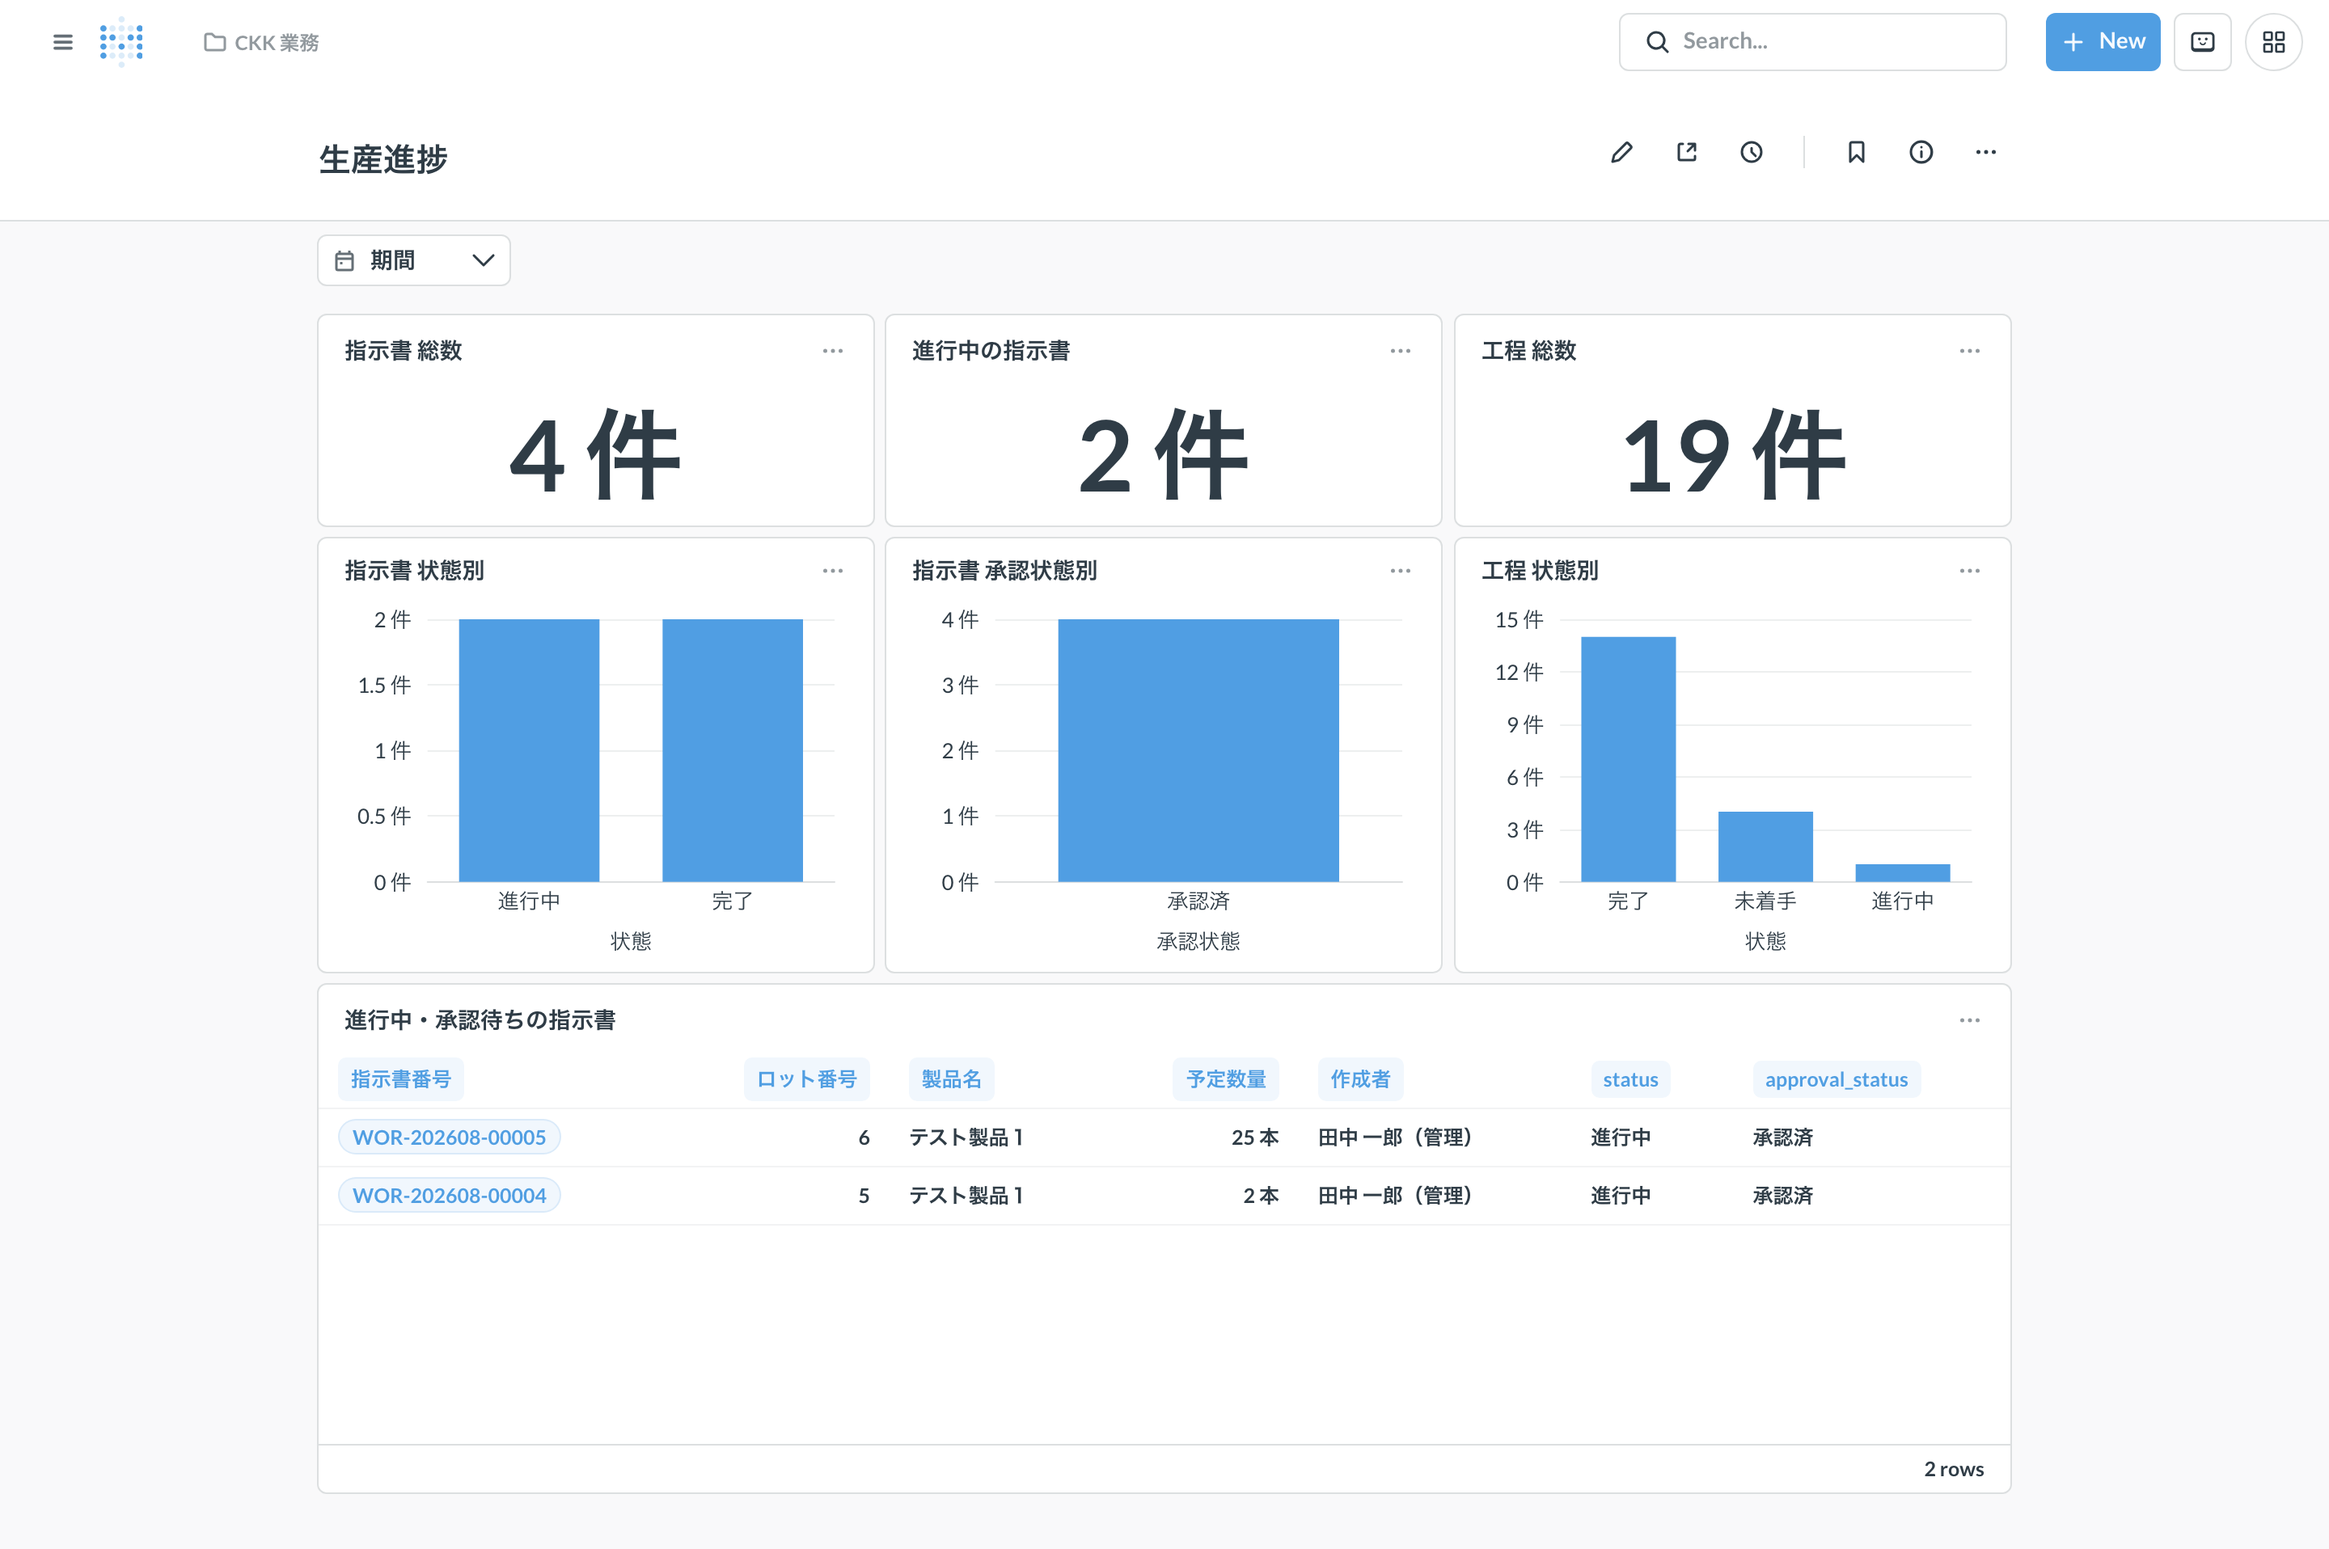
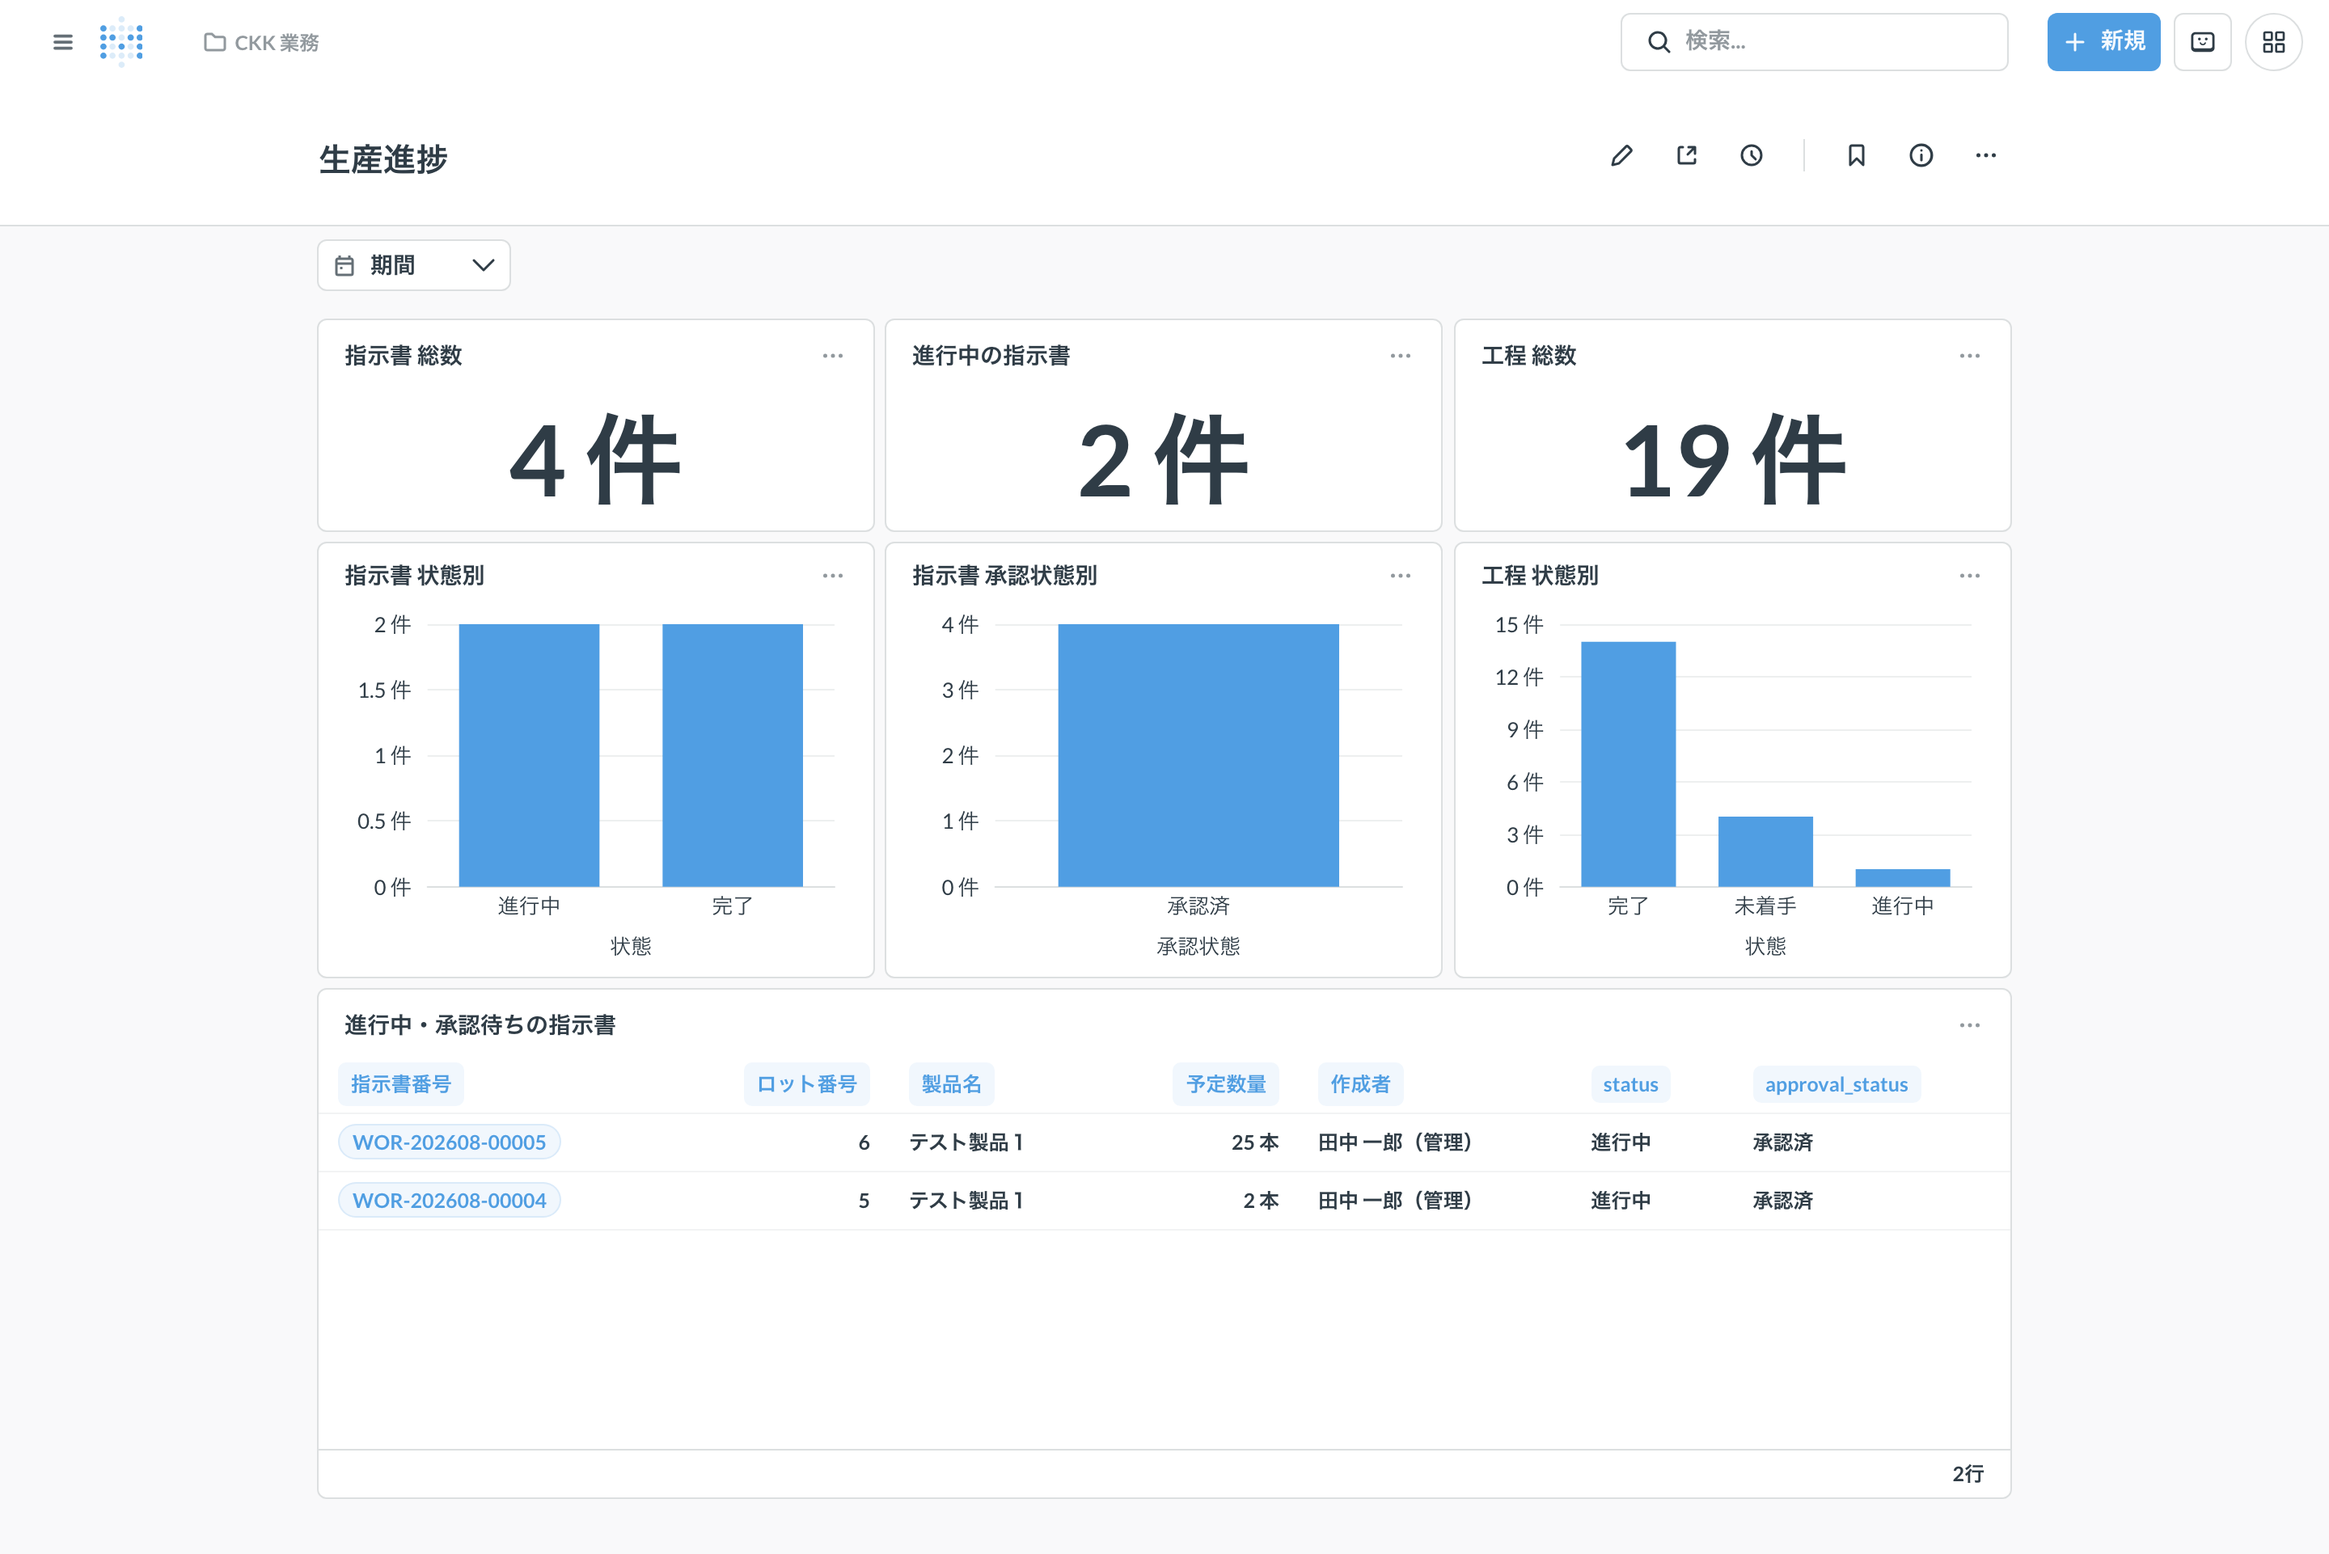
docs(manual): switch Metabase demo screenshots to Japanese UI
Production's bi.ckk-tool.co.jp already has site-locale=ja (real users
see fully Japanese chrome, not just Japanese content) — the local
throwaway demo Metabase never applied that setting, so the manual's
screenshots showed Japanese card content inside an English shell
(Search..., + New, Sign in). Set site-locale + the demo admin's own
locale to ja during setup; update the Playwright login selectors to be
language-agnostic (type-based, not English placeholder text) since they
now render in Japanese.

Also adds a billing fallback seed: ckk-db-dev has 0 real invoices, which
otherwise renders 請求 as an empty dashboard. Inserts a few synthetic
invoices referencing real customer names, skipped automatically once
real invoice data exists.

diff --git a/tools/docs-screenshots/scripts/metabase-demo-build.py b/tools/docs-screenshots/scripts/metabase-demo-build.py
@@ -66,10 +66,19 @@ def main():
     setup = api(mb_url, "POST", "/api/setup", {
         "token": props["setup-token"],
         "user": {"first_name": "Manual", "last_name": "Shots",
-                  "email": args.admin_email, "password": args.admin_password},
+                  "email": args.admin_email, "password": args.admin_password,
+                  "locale": "ja"},
         "prefs": {"site_name": "CKK Manual Shots", "allow_tracking": False},
     })
     session = setup["id"]
+    # Production's bi.ckk-tool.co.jp has site-locale=ja (real users see a fully
+    # Japanese UI, not just Japanese content) — match that here so the demo
+    # screenshots are representative, not just Japanese-labeled data inside an
+    # English chrome. Also set the admin account's own locale explicitly:
+    # `user.locale` at /api/setup is best-effort in some Metabase versions.
+    api(mb_url, "PUT", "/api/setting/site-locale", {"value": "ja"}, session=session)
+    me = api(mb_url, "GET", "/api/user/current", session=session)
+    api(mb_url, "PUT", f"/api/user/{me['id']}", {"locale": "ja"}, session=session)
 
     print("[2/6] data sources")
     biz_db = api(mb_url, "POST", "/api/database", {

diff --git a/coolify/apps/nextjs-web/content/manual/analytics.md b/coolify/apps/nextjs-web/content/manual/analytics.md
@@ -6,7 +6,7 @@ screenshots: [analytics-sales-01, analytics-production-01, analytics-billing-01,
 
 会社の実績を数字とグラフでまとめて見られる分析ツール「**Metabase**」の使い方です。業務管理システム本体（このマニュアルの他のページ）とは別のツールで、そこに入っているデータをグラフや表にして見せてくれます。
 
-> 💡 このページの画面は、説明のためのサンプルデータで撮影したものです。実際の画面には自社の実データが表示されます。また、Metabase 自体の画面（検索欄やメニューなど、内容以外の部分）は英語表示です。
+> 💡 このページの画面は、説明のためのサンプルデータで撮影したものです。実際の画面には自社の実データが表示されます。Metabase 自体の画面（検索欄やメニューなど）も日本語表示です。
 
 ## このツールでできること
 

diff --git a/coolify/apps/nextjs-web/content/manual/analytics.en.md b/coolify/apps/nextjs-web/content/manual/analytics.en.md
@@ -6,7 +6,7 @@ screenshots: [analytics-sales-01, analytics-production-01, analytics-billing-01,
 
 How to use **Metabase**, the analytics tool that turns the data in the business management system into charts and tables you can browse at a glance. It is a separate tool from the main app (the rest of this manual) — it reads the same data and presents it.
 
-> 💡 The screenshots on this page were taken with sample data for illustration. The real screens show your company's actual data. Metabase's own interface (search box, menus, and other chrome outside the content) is in English.
+> 💡 The screenshots on this page were taken with sample data for illustration. The real screens show your company's actual data. Metabase's own interface (search box, menus, and other chrome outside the content) is in Japanese too.
 
 ## What you can do here
 

diff --git a/coolify/apps/nextjs-web/content/manual/analytics.zh.md b/coolify/apps/nextjs-web/content/manual/analytics.zh.md
@@ -6,7 +6,7 @@ screenshots: [analytics-sales-01, analytics-production-01, analytics-billing-01,
 
 可以用图表和表格汇总查看公司业绩的分析工具「**Metabase**」的使用方法。它与业务管理系统本体（本手册的其他页面）是不同的工具，读取的是同一份数据，只是以图表和表格的形式呈现。
 
-> 💡 本页的截图使用示例数据拍摄，仅供说明。实际画面会显示贵公司的真实数据。Metabase 自身的界面（搜索框、菜单等内容以外的部分）为英文显示。
+> 💡 本页的截图使用示例数据拍摄，仅供说明。实际画面会显示贵公司的真实数据。Metabase 自身的界面（搜索框、菜单等内容以外的部分）也是日语显示。
 
 ## 可以做什么
 
